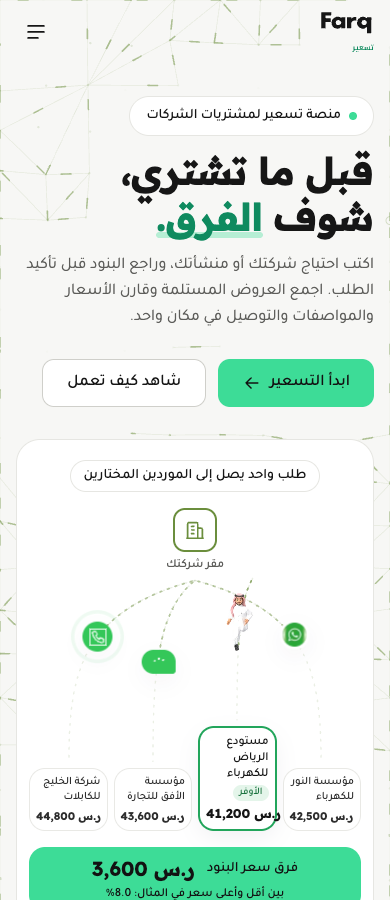
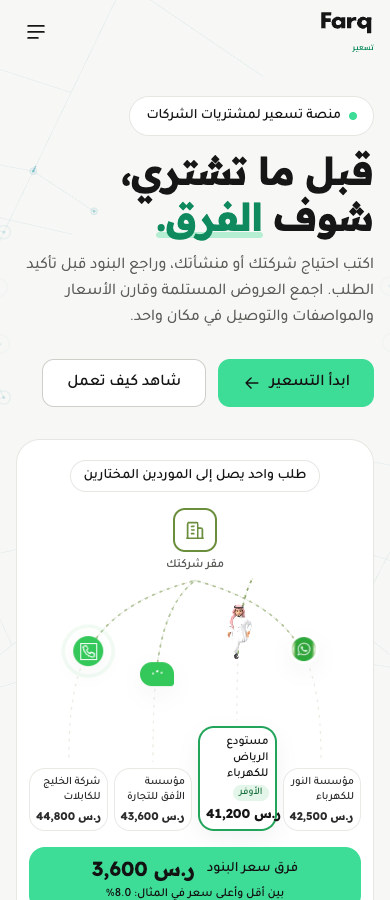
feat: strategic teal expansion wave and broader business needs

diff --git a/public/gate-network.js b/public/gate-network.js
@@ -3,9 +3,9 @@
  const canvas=document.createElement('canvas'), staticCanvas=document.createElement('canvas');
  canvas.setAttribute('aria-hidden','true');canvas.style.cssText='position:fixed;inset:0;width:100%;height:100%;pointer-events:none;z-index:0';document.body.prepend(canvas);
  const form=document.querySelector('form');form.style.position='relative';form.style.zIndex='1';form.style.boxSizing='border-box';form.style.width='min(360px,calc(100vw - 32px))';form.style.minWidth='0';
- const ctx=canvas.getContext('2d'),bg=staticCanvas.getContext('2d'),mq=matchMedia('(prefers-reduced-motion: reduce)');let edges=[],raf=0,w=0,h=0,dpr=1;
- function build(){w=innerWidth;h=innerHeight;dpr=Math.min(2,devicePixelRatio||1);canvas.width=staticCanvas.width=Math.round(w*dpr);canvas.height=staticCanvas.height=Math.round(h*dpr);edges=[];const rect=form.getBoundingClientRect();const add=(a,b)=>{for(let i=0;i<=24;i++){const x=a[0]+(b[0]-a[0])*i/24,y=a[1]+(b[1]-a[1])*i/24;if(x>rect.left-14&&x<rect.right+14&&y>rect.top-14&&y<rect.bottom+14)return}edges.push([a,b,Math.hypot(b[0]-a[0],b[1]-a[1])])};const rays=w<640?7:10,factor=w<640?.65:1;for(const side of [0,1]){let previous=null;for(const radius of [70,145,250,390,570,790,1050]){const ring=[];for(let j=0;j<=rays;j++){const angle=-Math.PI/2+j*Math.PI/rays+(side?Math.PI:0),r=radius*factor*(1+.035*Math.sin(j*5+radius));const point=[(side?w+36:-36)+Math.cos(angle)*r,h*.35+Math.sin(angle)*r];ring.push(point);if(j)add(ring[j-1],point);if(previous)add(previous[j],point)}previous=ring}}bg.setTransform(dpr,0,0,dpr,0,0);bg.clearRect(0,0,w,h);bg.strokeStyle='rgba(107,142,61,.085)';bg.lineWidth=.7;bg.beginPath();for(const[a,b]of edges){bg.moveTo(...a);bg.lineTo(...b)}bg.stroke();run()}
- function draw(now){ctx.setTransform(dpr,0,0,dpr,0,0);ctx.clearRect(0,0,w,h);ctx.drawImage(staticCanvas,0,0,w,h);if(mq.matches)return;ctx.lineWidth=1.2;ctx.lineCap='round';ctx.strokeStyle='rgba(107,142,61,.24)';ctx.beginPath();edges.forEach(([a,b,length],i)=>{const f=(now/1000*24/length+i*.07)%1,end=Math.min(1,f+10/length);ctx.moveTo(a[0]+(b[0]-a[0])*f,a[1]+(b[1]-a[1])*f);ctx.lineTo(a[0]+(b[0]-a[0])*end,a[1]+(b[1]-a[1])*end)});ctx.stroke();raf=requestAnimationFrame(draw)}
+ const ctx=canvas.getContext('2d'),bg=staticCanvas.getContext('2d'),mq=matchMedia('(prefers-reduced-motion: reduce)');let edges=[],nodes=[],raf=0,w=0,h=0,dpr=1;
+ function build(){w=innerWidth;h=innerHeight;dpr=Math.min(2,devicePixelRatio||1);canvas.width=staticCanvas.width=Math.round(w*dpr);canvas.height=staticCanvas.height=Math.round(h*dpr);edges=[];const rect=form.getBoundingClientRect();const add=(a,b)=>{for(let i=0;i<=24;i++){const x=a[0]+(b[0]-a[0])*i/24,y=a[1]+(b[1]-a[1])*i/24;if(x>rect.left-14&&x<rect.right+14&&y>rect.top-14&&y<rect.bottom+14)return}edges.push([a,b,Math.hypot(b[0]-a[0],b[1]-a[1])])};const rays=w<640?7:10,factor=w<640?.65:1;for(const side of [0,1]){let previous=null;for(const radius of [70,145,250,390,570,790,1050]){const ring=[];for(let j=0;j<=rays;j++){const angle=-Math.PI/2+j*Math.PI/rays+(side?Math.PI:0),r=radius*factor*(1+.035*Math.sin(j*5+radius));const point=[(side?w+36:-36)+Math.cos(angle)*r,h*.35+Math.sin(angle)*r];point.d=radius;ring.push(point);if(j)add(ring[j-1],point);if(previous)add(previous[j],point)}previous=ring}}nodes=[...new Set(edges.flatMap(e=>[e[0],e[1]]))];bg.setTransform(dpr,0,0,dpr,0,0);bg.clearRect(0,0,w,h);bg.strokeStyle='rgba(16,139,160,.10)';bg.lineWidth=.7;bg.beginPath();for(const[a,b]of edges){bg.moveTo(...a);bg.lineTo(...b)}bg.stroke();run()}
+ function draw(now){ctx.setTransform(dpr,0,0,dpr,0,0);ctx.clearRect(0,0,w,h);ctx.drawImage(staticCanvas,0,0,w,h);if(mq.matches)return;const cycle=now/1000%26,back=cycle>=12&&cycle<24,frontier=back?1100*(1-(cycle-12)/12):1100*Math.min(1,cycle/12),fade=cycle>24?(26-cycle)/2:Math.min(1,cycle/1.2);ctx.globalAlpha=fade;ctx.lineWidth=1.4;ctx.lineCap='round';ctx.strokeStyle=back?'rgba(187,135,71,.40)':'rgba(16,139,160,.34)';ctx.fillStyle=ctx.strokeStyle;ctx.beginPath();for(const[a,b,length]of edges){const diff=b.d-a.d;if(Math.abs(diff)<1)continue;const f=(frontier-a.d)/diff;if(f<0||f>1)continue;const start=Math.max(0,f-16/length),end=Math.min(1,f+3/length);ctx.moveTo(a[0]+(b[0]-a[0])*start,a[1]+(b[1]-a[1])*start);ctx.lineTo(a[0]+(b[0]-a[0])*end,a[1]+(b[1]-a[1])*end)}ctx.stroke();for(const p of nodes){const age=back?(p.d-frontier)/92:(frontier-p.d)/92;if(age<0||age>2.5)continue;ctx.globalAlpha=fade*(1-age/2.5);ctx.beginPath();ctx.arc(p[0],p[1],1.5,0,Math.PI*2);ctx.fill()}ctx.globalAlpha=1;raf=requestAnimationFrame(draw)}
  function run(){cancelAnimationFrame(raf);if(!document.hidden)draw(performance.now())}
  addEventListener('resize',build);document.addEventListener('visibilitychange',run);mq.addEventListener('change',run);build();
 })();

diff --git a/src/live-bg/webMesh.ts b/src/live-bg/webMesh.ts
@@ -1,6 +1,9 @@
+const ink = (rgb: number[], alpha: number) => `rgba(${rgb.join(',')},${alpha})`
+const searchInk = [16, 139, 160], opportunityInk = [187, 135, 71]
+export const WEB_INK = { line: ink(searchInk, 0.10), go: ink(searchInk, 0.34), back: ink(opportunityInk, 0.40) }
 type Edge = { a: number; b: number; L: number }
 export function webMesh(W: number, H: number, VH: number = H) {
-      const points: Array<{ x: number; y: number }> = [], edges: Edge[] = []
+      const points: Array<{ x: number; y: number; d: number }> = [], edges: Edge[] = []
       const add = (a: number, b: number) => edges.push({ a, b, L: Math.hypot(points[a].x - points[b].x, points[a].y - points[b].y) })
       const rays = W < 640 ? 7 : 10, factor = W < 640 ? 0.65 : 1
       for (let y = VH * 0.35; y < H + VH; y += VH * 1.6) for (const side of [0, 1]) {
@@ -10,7 +13,7 @@ export function webMesh(W: number, H: number, VH: number = H) {
           for (let j = 0; j <= rays; j++) {
             const angle = -Math.PI / 2 + j * Math.PI / rays + (side ? Math.PI : 0)
             const r = radius * factor * (1 + 0.035 * Math.sin(j * 5 + radius))
-            ring.push(points.length); points.push({ x: x + Math.cos(angle) * r, y: y + Math.sin(angle) * r })
+            ring.push(points.length); points.push({ x: x + Math.cos(angle) * r, y: y + Math.sin(angle) * r, d: radius })
             if (j > 0) add(ring[j - 1], ring[j])
             if (rings.length) add(rings[rings.length - 1][j], ring[j])
           }
@@ -18,4 +21,45 @@ export function webMesh(W: number, H: number, VH: number = H) {
         }
       }
   return { points, edges }
+}
+
+const connectedNodes = new WeakMap<Edge[], Set<number>>()
+
+/** A quiet frontier expands from both sides, lights new junctions, then brings opportunities back. */
+export function drawWebExpansion(
+  ctx: CanvasRenderingContext2D,
+  points: Array<{ x: number; y: number; d: number }>, edges: Edge[],
+  t: number, go: string, back: string, y0 = 0, y1 = Infinity,
+) {
+  let connected = connectedNodes.get(edges)
+  if (!connected) { connected = new Set(edges.flatMap((e) => [e.a, e.b])); connectedNodes.set(edges, connected) }
+  const cycle = t % 26, returning = cycle >= 12 && cycle < 24
+  const frontier = returning ? 1100 * (1 - (cycle - 12) / 12) : 1100 * Math.min(1, cycle / 12)
+  const fade = cycle > 24 ? (26 - cycle) / 2 : Math.min(1, cycle / 1.2)
+  ctx.save(); ctx.globalAlpha = fade; ctx.lineWidth = 1.4; ctx.lineCap = 'round'
+  ctx.strokeStyle = returning ? back : go; ctx.beginPath()
+  for (const e of edges) {
+    const a = points[e.a], b = points[e.b]
+    if (Math.max(a.y, b.y) < y0 || Math.min(a.y, b.y) > y1) continue
+    const diff = b.d - a.d
+    if (Math.abs(diff) < 1) continue
+    const f = (frontier - a.d) / diff
+    if (f < 0 || f > 1) continue
+    const start = Math.max(0, f - 16 / e.L), end = Math.min(1, f + 3 / e.L)
+    ctx.moveTo(a.x + (b.x - a.x) * start, a.y + (b.y - a.y) * start)
+    ctx.lineTo(a.x + (b.x - a.x) * end, a.y + (b.y - a.y) * end)
+  }
+  ctx.stroke(); ctx.fillStyle = returning ? back : go
+  for (let i = 0; i < points.length; i++) {
+    if (!connected.has(i)) continue
+    const p = points[i]
+    if (p.y < y0 || p.y > y1) continue
+    const age = returning ? (p.d - frontier) / 92 : (frontier - p.d) / 92
+    if (age < 0 || age > 2.5) continue
+    ctx.globalAlpha = fade * (1 - age / 2.5)
+    ctx.beginPath(); ctx.arc(p.x, p.y, 1.5, 0, Math.PI * 2); ctx.fill()
+    ctx.globalAlpha = fade * (1 - age / 2.5) * 0.4
+    ctx.beginPath(); ctx.arc(p.x, p.y, 3 + age * 3, 0, Math.PI * 2); ctx.stroke()
+  }
+  ctx.restore()
 }

diff --git a/src/live-bg/pageNetwork.ts b/src/live-bg/pageNetwork.ts
@@ -1,4 +1,4 @@
-import { webMesh } from './webMesh'
+import { webMesh, drawWebExpansion, WEB_INK } from './webMesh'
 /*
  * «الشبكة الحية» for the landing page — a port of docs/reference/landing-live-network.html (owner, 2026-10-08):
  * the whole page is ONE network with ONE head office and ONE round. A screen-sized fixed canvas (above the section
@@ -95,7 +95,7 @@ export class PageNetwork {
   private played = 0 // rounds that ran to the end: only the very first one is the short «see it whole» round
   private buckets = new Map<number, number[]>()
   private meshEdges: Edge[] = []
-  private meshVertices: Array<{ x: number; y: number }> = []
+  private meshVertices: Array<{ x: number; y: number; d: number }> = []
   private meshCanvas = document.createElement('canvas')
   private meshScroll = NaN
   private widths = new Map<string, number>()
@@ -196,7 +196,7 @@ export class PageNetwork {
     const dd = V.map((v) => this.dist(v.x, v.y))
     this.VF = dd.map((d) => (d <= 4 ? 0 : Math.min(1, (d - 4) / 40))); this.BLK = dd.map((d) => d < 22)
     // Spacious webs grow inward from the two margins. Keep the request-routing graph independent.
-    this.meshVertices = V
+    this.meshVertices = V.map((v) => ({ ...v, d: 0 }))
     let mesh = E
     if (!this.story) {
       const { points, edges } = webMesh(W, H, VH)
@@ -205,7 +205,7 @@ export class PageNetwork {
     // Test the entire edge once, so neither the grid nor its pulses pass behind content.
     this.meshEdges = mesh.filter((e) => {
       const a = this.meshVertices[e.a], b = this.meshVertices[e.b], steps = Math.ceil(e.L / 6)
-      for (let i = 0; i <= steps; i++) if (this.inUI(a.x + (b.x - a.x) * i / steps, a.y + (b.y - a.y) * i / steps, 10)) return false
+      for (let i = 0; i <= steps; i++) if (this.inUI(a.x + (b.x - a.x) * i / steps, a.y + (b.y - a.y) * i / steps, 14)) return false
       return true
     })
     this.meshCanvas.width = this.canvas.width; this.meshCanvas.height = this.canvas.height
@@ -359,7 +359,7 @@ export class PageNetwork {
     if (this.meshScroll !== SY) {
       const c = this.meshCanvas.getContext('2d')!
       c.setTransform(DPR, 0, 0, DPR, 0, 0); c.clearRect(0, 0, this.VW, VH)
-      c.translate(0, -SY); c.lineWidth = 0.6; c.strokeStyle = col(this.go, 0.085); c.beginPath()
+      c.translate(0, -SY); c.lineWidth = 0.6; c.strokeStyle = WEB_INK.line; c.beginPath()
       for (const e of meshEdges) {
         const a = V[e.a], b = V[e.b]
         if (Math.max(a.y, b.y) < SY || Math.min(a.y, b.y) > SY + VH) continue
@@ -369,15 +369,8 @@ export class PageNetwork {
     }
     ctx.drawImage(this.meshCanvas, 0, SY, this.VW, VH)
     if (!live) return
-    ctx.lineWidth = 1.2; ctx.lineCap = 'round'; ctx.strokeStyle = col(this.go, 0.24); ctx.beginPath()
-    for (let i = 0; i < meshEdges.length; i++) {
-      const e = meshEdges[i], a = V[e.a], b = V[e.b]
-      if (Math.max(a.y, b.y) < SY || Math.min(a.y, b.y) > SY + VH) continue
-      const f = (t * 24 / e.L + i * 0.07) % 1, end = Math.min(1, f + 12 / e.L)
-      ctx.moveTo(a.x + (b.x - a.x) * f, a.y + (b.y - a.y) * f)
-      ctx.lineTo(a.x + (b.x - a.x) * end, a.y + (b.y - a.y) * end)
-    }
-    ctx.stroke()
+    drawWebExpansion(ctx, V, meshEdges, t, WEB_INK.go, WEB_INK.back, SY, SY + VH)
+
   }
   private dots(t: number, live: boolean) {
     const { ctx, V, VF, VD, PH, mouse } = this, SP = 320, PER = 3 * SP, mx = mouse.on ? mouse.x : -1e4, my = mouse.y, y0 = this.SY - 12, y1 = this.SY + this.VH + 12

diff --git a/src/live-bg/engine.ts b/src/live-bg/engine.ts
@@ -1,4 +1,4 @@
-import { webMesh } from './webMesh'
+import { webMesh, drawWebExpansion, WEB_INK } from './webMesh'
 /*
  * «الشبكة الحية» — Canvas 2D port of
  * docs/handoff/farq-live-background/reference/live-background-prototype.html (source of truth for
@@ -293,11 +293,10 @@ export class LiveEngine {
     b.fillStyle = this.base0; b.fillRect(0, 0, W, H)
     this.tris.forEach((q, i) => { b.beginPath(); b.moveTo(V[q[0]].x, V[q[0]].y); b.lineTo(V[q[1]].x, V[q[1]].y); b.lineTo(V[q[2]].x, V[q[2]].y); b.closePath(); b.fillStyle = this.shades[i]; b.fill() })
     // ambient is clearly lighter than the story layer: a sense of motion, not a drawing
-    const line = this.story ? (this.opts.reduced ? 0.14 : 0.07) : (this.opts.reduced ? 0.07 : 0.035)
     // the lines go on their own layer so only the network fades under text — the facets stay whole (no patches)
     const L = (this.lines ??= document.createElement('canvas')); L.width = this.bg.width; L.height = this.bg.height
     const l = L.getContext('2d')!; l.setTransform(this.DPR, 0, 0, this.DPR, 0, 0)
-    l.lineCap = 'round'; l.lineWidth = 0.8; l.strokeStyle = rgba(this.go, line); l.beginPath()
+    l.lineCap = 'round'; l.lineWidth = 0.8; l.strokeStyle = WEB_INK.line; l.beginPath()
     for (const e of this.ambient.edges) { const a = this.ambient.points[e.a], b = this.ambient.points[e.b]; l.moveTo(a.x, a.y); l.lineTo(b.x, b.y) } l.stroke()
     this.shield(l)
     b.setTransform(1, 0, 0, 1, 0, 0); b.drawImage(L, 0, 0); b.setTransform(this.DPR, 0, 0, this.DPR, 0, 0)
@@ -734,15 +733,7 @@ export class LiveEngine {
   private draw(t: number) {
     const { ctx, V, W, H, S, go, back } = this
     ctx.clearRect(0, 0, W, H)
-    // Quiet pulses spread along the two webs; the existing request paths stay independent.
-    ctx.lineCap = 'round'; ctx.lineWidth = 1.2; ctx.strokeStyle = rgba(go, 0.18); ctx.beginPath()
-    this.ambient.edges.forEach((e, i) => {
-      const a = this.ambient.points[e.a], b = this.ambient.points[e.b]
-      const f = (t * 24 / e.L + i * 0.07) % 1, end = Math.min(1, f + 12 / e.L)
-      ctx.moveTo(a.x + (b.x - a.x) * f, a.y + (b.y - a.y) * f)
-      ctx.lineTo(a.x + (b.x - a.x) * end, a.y + (b.y - a.y) * end)
-    })
-    ctx.stroke()
+    drawWebExpansion(ctx, this.ambient.points, this.ambient.edges, t, WEB_INK.go, WEB_INK.back, 0, H)
     if (!this.story || !S) { this.shield(ctx); return }
     ctx.lineCap = 'round'; ctx.lineWidth = 1.2
     let got = 0, RUN: Walker | null = null

diff --git a/src/pages/landing/sections/Below.tsx b/src/pages/landing/sections/Below.tsx
@@ -161,9 +161,9 @@ function Difference() {
 
 /* ── Trust strip 35:218 — real figures are not available: placeholders (decision 5) ── */
 const AUDIENCE = [
-  { icon: 'building' as const, title: 'العيادات', body: 'مثال احتياج: 20 كرسي انتظار لعيادة بالرياض.' },
-  { icon: 'layers' as const, title: 'المطاعم', body: 'مثال احتياج: معدات مطبخ وتجهيز منطقة التحضير.' },
-  { icon: 'sliders' as const, title: 'المكاتب', body: 'مثال احتياج: أجهزة كمبيوتر وأثاث للموظفين.' },
+  { icon: 'building' as const, title: 'العيادات', body: 'مستلزمات طبية، أدوية محددة، أو تجهيزات وأثاث للعيادة.' },
+  { icon: 'layers' as const, title: 'المطاعم', body: 'مواد غذائية، معدات مطبخ، أو مستلزمات تشغيل المطعم.' },
+  { icon: 'sliders' as const, title: 'المكاتب', body: 'أجهزة وأثاث، مياه وقهوة، أو أسلاك ومستلزمات المكتب اليومية.' },
   { icon: 'grid' as const, title: 'الفنادق', body: 'مثال احتياج: مستلزمات تشغيل وتجهيز الغرف.' },
   { icon: 'building' as const, title: 'المقاولات', body: 'مثال احتياج: مواد بناء وسباكة وكهرباء لمشروع.' },
   { icon: 'layers' as const, title: 'المصانع', body: 'مثال احتياج: معدات أو قطع غيار للتشغيل.' },

diff --git a/docs/qa/landing-publish/REPORT.md b/docs/qa/landing-publish/REPORT.md
@@ -32,3 +32,11 @@
 بناءً على توجيه المالك: استُبدلت كثافة الشبكة بخيوط شعاعية متباعدة تبدأ من الهامشين الأيمن والأيسر، مع حلقات غير منتظمة تصل بينها. خُفّض وضوح الخطوط والنبضات وسرعتها، وأزيلت النقاط المنتظمة من اللاندنق. مولد webMesh مشترك بين اللاندنق والتطبيق، مع الحفاظ على مسارات الطلبات وأحمد مستقلة عن شكل الخلفية. حاجز كلمة المرور يتبع الشكل نفسه دون اتصال API.
 
 التحقق: build وtypecheck وlint بلا أخطاء، 23/23 اختبارًا ناجحًا، وحركة فعلية وشبكة ثابتة مع تقليل الحركة وصفر مخالفات axe في 1440 و390. أرقام التوقيت في check.json ضمن اختبار تصوير آلي ولا تصلح كقياس أداء معزول؛ لم تُستخدم لإعلان اجتياز حد الأداء.
+
+## موجة الانتشار واللون المميز
+
+توجيه المالك النهائي: محاكاة التوسع والوصول إلى جهات جديدة، وليس حركة عشوائية على الخطوط. دورة هادئة: انتشار تدريجي من الهامشين لمدة 12 ثانية؛ إضاءة نقاط الاتصال عند وصول الموجة؛ رجوع الفرص لمدة 12 ثانية؛ اختفاء لطيف قبل الدورة التالية. لون البحث تركواز بترولي، والرجوع ذهبي دافئ. لا إحصاءات ولا أسماء موردين توحي بأن الخلفية بيانات تشغيلية. تغيرت خلفية التطبيق واللاندنق وحاجز الدخول مع المحافظة على حركة أحمد ومسارات الطلبات.
+
+اتسعت أمثلة المنشآت: المطاعم تشمل المواد الغذائية والتشغيل؛ العيادات تشمل المستلزمات الطبية والأدوية كأمثلة احتياج؛ المكاتب تشمل المياه والقهوة والأسلاك والمستلزمات اليومية. النص المجاور يوضح أن إمكانية التسعير تعتمد على المواصفات والموردين المتاحين.
+
+build وtypecheck وlint ناجحة. فحص النسخة المبنية نجح في 1440 و390: حركة، عدم تمدد أفقي، عدم أخطاء JavaScript، وحماية API. الانتشار يبدأ تدريجيًا لذلك ينتظر الاختبار ظهور موجته بدل تصوير أول لحظة ساكنة.
